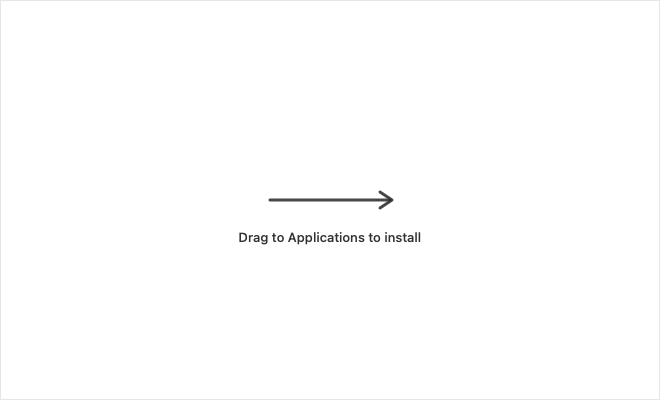
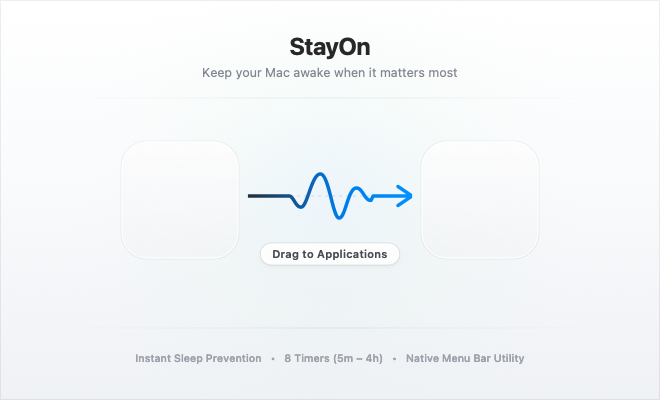
feat: add automated DMG background generator script
- Introduce a Swift script to programmatically generate high-fidelity DMG installer background images.
- Implement `renderDMGBackground` using Core Graphics to draw a professional, branded layout including a luminous gradient base, icon pedestals, and a pulse-wave graphic.
- Add typography rendering using SF Pro with native macOS layout metrics for titles, subtitles, and instructional capsules.
- Automate the generation of both 1x (660x400) and 2x (1320x800) assets to ensure crisp display on Retina screens.
- Include an optional mock mode to overlay system icons for visual verification during development.
- Update `dmg_background.png` and `dmg_background@2x.png` with the new generated assets.

diff --git a/scripts/generate_dmg_background.swift b/scripts/generate_dmg_background.swift
@@ -1,0 +1,391 @@
+#!/usr/bin/env swift
+import Cocoa
+
+// MARK: - Dimensions & Coordinates
+let width: CGFloat = 660
+let height: CGFloat = 400
+
+// Finder icon coordinates in points (top-left origin)
+let stayOnCenter = CGPoint(x: 180, y: 200)
+let appsCenter = CGPoint(x: 480, y: 200)
+
+// Helper: Color from Hex
+func color(hex: UInt32, alpha: CGFloat = 1.0) -> NSColor {
+    let r = CGFloat((hex >> 16) & 0xFF) / 255.0
+    let g = CGFloat((hex >> 8) & 0xFF) / 255.0
+    let b = CGFloat(hex & 0xFF) / 255.0
+    return NSColor(calibratedRed: r, green: g, blue: b, alpha: alpha)
+}
+
+// Exact StayOn pulse waveform scaled and centered
+func makeStayOnPulsePath(centerX: CGFloat, baselineY: CGFloat, pulseWidth: CGFloat, pulseHeight: CGFloat) -> CGPath {
+    let path = CGMutablePath()
+    let origWidth: CGFloat = 353.0
+    let origHeight: CGFloat = 210.0
+    let scaleX = pulseWidth / origWidth
+    let scaleY = pulseHeight / origHeight
+    let startX = centerX - (pulseWidth / 2.0)
+    
+    func mapPoint(_ sx: CGFloat, _ sy: CGFloat) -> CGPoint {
+        let px = startX + (sx - 76.0) * scaleX
+        let py = baselineY + (sy - 160.0) * scaleY
+        return CGPoint(x: px, y: py)
+    }
+    
+    path.move(to: mapPoint(76, 160))
+    path.addCurve(to: mapPoint(128, 213), control1: mapPoint(96, 160), control2: mapPoint(103, 213))
+    path.addCurve(to: mapPoint(211, 55), control1: mapPoint(155, 213), control2: mapPoint(173, 55))
+    path.addCurve(to: mapPoint(292, 265), control1: mapPoint(248, 55), control2: mapPoint(264, 265))
+    path.addCurve(to: mapPoint(366, 122), control1: mapPoint(319, 265), control2: mapPoint(330, 122))
+    path.addCurve(to: mapPoint(429, 181), control1: mapPoint(394, 122), control2: mapPoint(400, 181))
+    path.addLine(to: mapPoint(438, 160))
+    return path
+}
+
+// MARK: - Main Render Function
+func renderDMGBackground(scale: CGFloat, includeMockIcons: Bool = false) -> NSBitmapImageRep {
+    let pixelWidth = Int(width * scale)
+    let pixelHeight = Int(height * scale)
+    
+    let rep = NSBitmapImageRep(
+        bitmapDataPlanes: nil,
+        pixelsWide: pixelWidth,
+        pixelsHigh: pixelHeight,
+        bitsPerSample: 8,
+        samplesPerPixel: 4,
+        hasAlpha: true,
+        isPlanar: false,
+        colorSpaceName: .deviceRGB,
+        bytesPerRow: 0,
+        bitsPerPixel: 0
+    )!
+    
+    guard let nsCtx = NSGraphicsContext(bitmapImageRep: rep) else {
+        fatalError("Failed to create graphics context")
+    }
+    
+    NSGraphicsContext.saveGraphicsState()
+    NSGraphicsContext.current = nsCtx
+    let ctx = nsCtx.cgContext
+    
+    // Scale for Retina
+    ctx.scaleBy(x: scale, y: scale)
+    
+    // Flip coordinate system so (0,0) is TOP-LEFT (matching Finder)
+    ctx.translateBy(x: 0, y: height)
+    ctx.scaleBy(x: 1.0, y: -1.0)
+    
+    let colorSpace = CGColorSpaceCreateDeviceRGB()
+    
+    // -------------------------------------------------------------
+    // 1. Sleek Bright Light Base Gradient
+    // -------------------------------------------------------------
+    // Soft, luminous studio lighting: pure white top fading to crisp light silver-slate
+    let bgColors = [
+        color(hex: 0xFFFFFF).cgColor,
+        color(hex: 0xF7F9FB).cgColor,
+        color(hex: 0xEBEEF3).cgColor
+    ] as CFArray
+    let bgLocations: [CGFloat] = [0.0, 0.45, 1.0]
+    if let bgGradient = CGGradient(colorsSpace: colorSpace, colors: bgColors, locations: bgLocations) {
+        ctx.drawLinearGradient(bgGradient, start: CGPoint(x: 0, y: 0), end: CGPoint(x: 0, y: height), options: [])
+    }
+    
+    // Ambient awake radiance: delicate radial energy aura
+    let auraColors = [
+        color(hex: 0x007AFF, alpha: 0.045).cgColor,
+        color(hex: 0x34C759, alpha: 0.020).cgColor,
+        color(hex: 0xFFFFFF, alpha: 0.0).cgColor
+    ] as CFArray
+    if let auraGradient = CGGradient(colorsSpace: colorSpace, colors: auraColors, locations: [0.0, 0.5, 1.0]) {
+        ctx.drawRadialGradient(
+            auraGradient,
+            startCenter: CGPoint(x: 330, y: 195),
+            startRadius: 0,
+            endCenter: CGPoint(x: 330, y: 195),
+            endRadius: 270,
+            options: []
+        )
+    }
+
+    // -------------------------------------------------------------
+    // 2. Subtle Inset & Hairline Studio Dividers
+    // -------------------------------------------------------------
+    // Outer frame hairline
+    ctx.saveGState()
+    ctx.setLineWidth(1.0)
+    ctx.setStrokeColor(color(hex: 0x000000, alpha: 0.065).cgColor)
+    ctx.stroke(CGRect(x: 0.5, y: 0.5, width: width - 1.0, height: height - 1.0))
+    ctx.restoreGState()
+    
+    // Gradient-faded dividers
+    let dividerColors = [
+        color(hex: 0x000000, alpha: 0.0).cgColor,
+        color(hex: 0x000000, alpha: 0.065).cgColor,
+        color(hex: 0x000000, alpha: 0.0).cgColor
+    ] as CFArray
+    if let divGrad = CGGradient(colorsSpace: colorSpace, colors: dividerColors, locations: [0.0, 0.5, 1.0]) {
+        // Top divider at Finder y = 98
+        ctx.saveGState()
+        ctx.setLineWidth(1.0)
+        ctx.move(to: CGPoint(x: 48, y: 98))
+        ctx.addLine(to: CGPoint(x: width - 48, y: 98))
+        ctx.replacePathWithStrokedPath()
+        ctx.clip()
+        ctx.drawLinearGradient(divGrad, start: CGPoint(x: 48, y: 98), end: CGPoint(x: width - 48, y: 98), options: [])
+        ctx.restoreGState()
+        
+        // Bottom divider at Finder y = 328
+        ctx.saveGState()
+        ctx.setLineWidth(1.0)
+        ctx.move(to: CGPoint(x: 48, y: 328))
+        ctx.addLine(to: CGPoint(x: width - 48, y: 328))
+        ctx.replacePathWithStrokedPath()
+        ctx.clip()
+        ctx.drawLinearGradient(divGrad, start: CGPoint(x: 48, y: 328), end: CGPoint(x: width - 48, y: 328), options: [])
+        ctx.restoreGState()
+    }
+
+    // -------------------------------------------------------------
+    // 3. Frosted Icon Pedestals (Dock Landing Pads)
+    // -------------------------------------------------------------
+    func drawPedestal(at center: CGPoint) {
+        let size: CGFloat = 118
+        let rect = CGRect(x: center.x - size / 2.0, y: center.y - size / 2.0, width: size, height: size)
+        let radius: CGFloat = 26
+        let path = CGPath(roundedRect: rect, cornerWidth: radius, cornerHeight: radius, transform: nil)
+        
+        ctx.saveGState()
+        // Soft tactile drop shadow
+        ctx.setShadow(offset: CGSize(width: 0, height: -2), blur: 14, color: color(hex: 0x000000, alpha: 0.05).cgColor)
+        
+        let pedGrad = CGGradient(
+            colorsSpace: colorSpace,
+            colors: [
+                color(hex: 0xFFFFFF, alpha: 0.90).cgColor,
+                color(hex: 0xF5F7FA, alpha: 0.65).cgColor
+            ] as CFArray,
+            locations: [0.0, 1.0]
+        )!
+        ctx.addPath(path)
+        ctx.clip()
+        ctx.drawLinearGradient(pedGrad, start: CGPoint(x: rect.minX, y: rect.minY), end: CGPoint(x: rect.minX, y: rect.maxY), options: [])
+        ctx.restoreGState()
+        
+        // Outer crisp hairline border
+        ctx.saveGState()
+        ctx.addPath(path)
+        ctx.setLineWidth(1.0)
+        ctx.setStrokeColor(color(hex: 0x000000, alpha: 0.06).cgColor)
+        ctx.strokePath()
+        
+        // Inner luminous highlight rim
+        let innerRect = rect.insetBy(dx: 1.0, dy: 1.0)
+        let innerPath = CGPath(roundedRect: innerRect, cornerWidth: radius - 1, cornerHeight: radius - 1, transform: nil)
+        ctx.addPath(innerPath)
+        ctx.setLineWidth(1.0)
+        ctx.setStrokeColor(color(hex: 0xFFFFFF, alpha: 0.95).cgColor)
+        ctx.strokePath()
+        ctx.restoreGState()
+    }
+    
+    drawPedestal(at: stayOnCenter)
+    drawPedestal(at: appsCenter)
+
+    // -------------------------------------------------------------
+    // 4. Sleek Pulse Wave Arrow (The Heartbeat of StayOn)
+    // -------------------------------------------------------------
+    let centerY: CGFloat = 196
+    let arrowStartX: CGFloat = 248
+    let arrowEndX: CGFloat = 412
+    let pulseCenterX: CGFloat = 330
+    let pulseWidth: CGFloat = 82
+    let pulseHeight: CGFloat = 44
+    
+    // Delicate dotted baseline guide track (vital signs / oscilloscope track)
+    ctx.saveGState()
+    ctx.setLineWidth(1.5)
+    ctx.setLineDash(phase: 0, lengths: [3, 4])
+    ctx.setStrokeColor(color(hex: 0x000000, alpha: 0.08).cgColor)
+    ctx.move(to: CGPoint(x: arrowStartX, y: centerY))
+    ctx.addLine(to: CGPoint(x: arrowEndX - 10, y: centerY))
+    ctx.strokePath()
+    ctx.restoreGState()
+
+    // Full Pulse Arrow Path
+    let pulseStartX = pulseCenterX - (pulseWidth / 2.0)
+    let fullArrowPath = CGMutablePath()
+    fullArrowPath.move(to: CGPoint(x: arrowStartX, y: centerY))
+    fullArrowPath.addLine(to: CGPoint(x: pulseStartX, y: centerY))
+    
+    let pulseWave = makeStayOnPulsePath(
+        centerX: pulseCenterX,
+        baselineY: centerY,
+        pulseWidth: pulseWidth,
+        pulseHeight: pulseHeight
+    )
+    fullArrowPath.addPath(pulseWave)
+    fullArrowPath.addLine(to: CGPoint(x: arrowEndX, y: centerY))
+
+    // Crisp aerodynamic arrowhead
+    let headLen: CGFloat = 14.0
+    let headSpread: CGFloat = 9.5
+    let arrowHead = CGMutablePath()
+    arrowHead.move(to: CGPoint(x: arrowEndX - headLen, y: centerY - headSpread))
+    arrowHead.addLine(to: CGPoint(x: arrowEndX, y: centerY))
+    arrowHead.addLine(to: CGPoint(x: arrowEndX - headLen, y: centerY + headSpread))
+
+    // Stroke Pulse Arrow with energetic gradient + soft glow
+    ctx.saveGState()
+    ctx.setShadow(offset: CGSize(width: 0, height: -2), blur: 8, color: color(hex: 0x007AFF, alpha: 0.28).cgColor)
+    ctx.addPath(fullArrowPath)
+    ctx.addPath(arrowHead)
+    ctx.setLineWidth(3.4)
+    ctx.setLineCap(.round)
+    ctx.setLineJoin(.round)
+    
+    let arrowGradColors = [
+        color(hex: 0x1D2129).cgColor,  // Sleek graphite matching StayOn squircle
+        color(hex: 0x0062E3).cgColor,  // Vibrant transition
+        color(hex: 0x007AFF).cgColor   // Apple electric blue
+    ] as CFArray
+    if let strokeGrad = CGGradient(colorsSpace: colorSpace, colors: arrowGradColors, locations: [0.0, 0.55, 1.0]) {
+        ctx.replacePathWithStrokedPath()
+        ctx.clip()
+        ctx.drawLinearGradient(strokeGrad, start: CGPoint(x: arrowStartX, y: centerY), end: CGPoint(x: arrowEndX, y: centerY), options: [])
+    }
+    ctx.restoreGState()
+
+    // -------------------------------------------------------------
+    // 5. Typography (SF Pro, High Legibility, Native macOS Layout)
+    // -------------------------------------------------------------
+    ctx.saveGState()
+    ctx.translateBy(x: 0, y: height)
+    ctx.scaleBy(x: 1.0, y: -1.0)
+    
+    func drawCenteredText(
+        _ text: String,
+        at point: CGPoint,
+        fontSize: CGFloat,
+        weight: NSFont.Weight,
+        color: NSColor,
+        kern: CGFloat = 0.0
+    ) {
+        let font = NSFont.systemFont(ofSize: fontSize, weight: weight)
+        let paragraph = NSMutableParagraphStyle()
+        paragraph.alignment = .center
+        let attrs: [NSAttributedString.Key: Any] = [
+            .font: font,
+            .foregroundColor: color,
+            .paragraphStyle: paragraph,
+            .kern: kern
+        ]
+        let attrStr = NSAttributedString(string: text, attributes: attrs)
+        let size = attrStr.size()
+        let rect = CGRect(x: point.x - size.width / 2.0, y: point.y - size.height / 2.0, width: size.width, height: size.height)
+        attrStr.draw(in: rect)
+    }
+
+    // Top Header Title: "StayOn"
+    // Finder y = 46 -> Cocoa y = 354
+    drawCenteredText("StayOn", at: CGPoint(x: width / 2.0, y: 354), fontSize: 24, weight: .bold, color: color(hex: 0x1D1D1F), kern: -0.4)
+    
+    // Top Subtitle: "Keep your Mac awake when it matters most"
+    // Finder y = 72 -> Cocoa y = 328
+    drawCenteredText("Keep your Mac awake when it matters most", at: CGPoint(x: width / 2.0, y: 328), fontSize: 12.5, weight: .regular, color: color(hex: 0x6E737D))
+
+    // Instruction Capsule: "Drag to Applications"
+    // Finder y = 254 -> Cocoa y = 146
+    let pillText = "Drag to Applications"
+    let pillFont = NSFont.systemFont(ofSize: 11, weight: .semibold)
+    let pAttrs: [NSAttributedString.Key: Any] = [
+        .font: pillFont,
+        .foregroundColor: color(hex: 0x363A42),
+        .kern: 0.2
+    ]
+    let pStr = NSAttributedString(string: pillText, attributes: pAttrs)
+    let pSize = pStr.size()
+    let pillW = pSize.width + 24
+    let pillH: CGFloat = 22
+    let pillY: CGFloat = 146
+    let pillRect = CGRect(x: (width - pillW) / 2.0, y: pillY - pillH / 2.0, width: pillW, height: pillH)
+    let pillBezier = NSBezierPath(roundedRect: pillRect, xRadius: 11, yRadius: 11)
+    
+    let shadow = NSShadow()
+    shadow.shadowOffset = CGSize(width: 0, height: -1.5)
+    shadow.shadowBlurRadius = 5
+    shadow.shadowColor = color(hex: 0x000000, alpha: 0.05)
+    shadow.set()
+    color(hex: 0xFFFFFF, alpha: 0.94).setFill()
+    pillBezier.fill()
+    
+    NSShadow().set()
+    color(hex: 0x000000, alpha: 0.075).setStroke()
+    pillBezier.lineWidth = 1.0
+    pillBezier.stroke()
+    
+    pStr.draw(at: CGPoint(x: (width - pSize.width) / 2.0, y: pillY - pSize.height / 2.0))
+
+    // Bottom Feature Highlights
+    // Finder y = 358 -> Cocoa y = 42
+    let featureText = "Instant Sleep Prevention   •   8 Timers (5m – 4h)   •   Native Menu Bar Utility"
+    drawCenteredText(
+        featureText,
+        at: CGPoint(x: width / 2.0, y: 42),
+        fontSize: 10.5,
+        weight: .medium,
+        color: color(hex: 0x8C919C)
+    )
+
+    // Optional Preview Icons (for visual verification)
+    if includeMockIcons {
+        let scriptUrl = URL(fileURLWithPath: CommandLine.arguments[0])
+        let repoRoot = scriptUrl.deletingLastPathComponent().deletingLastPathComponent()
+        let appIconUrl = repoRoot.appendingPathComponent("Resources/AppIcon.png")
+        if let appIconImg = NSImage(contentsOf: appIconUrl) {
+            let iconRect = CGRect(x: stayOnCenter.x - 50, y: (height - stayOnCenter.y) - 50, width: 100, height: 100)
+            appIconImg.draw(in: iconRect)
+        }
+        drawCenteredText("StayOn", at: CGPoint(x: stayOnCenter.x, y: 124), fontSize: 12, weight: .regular, color: color(hex: 0x1D1D1F))
+        
+        let appsIconUrl = URL(fileURLWithPath: "/System/Library/CoreServices/CoreTypes.bundle/Contents/Resources/ApplicationsFolderIcon.icns")
+        if let appsIconImg = NSImage(contentsOf: appsIconUrl) {
+            let iconRect = CGRect(x: appsCenter.x - 50, y: (height - appsCenter.y) - 50, width: 100, height: 100)
+            appsIconImg.draw(in: iconRect)
+        }
+        drawCenteredText("Applications", at: CGPoint(x: appsCenter.x, y: 124), fontSize: 12, weight: .regular, color: color(hex: 0x1D1D1F))
+    }
+
+    ctx.restoreGState()
+    NSGraphicsContext.restoreGraphicsState()
+    
+    return rep
+}
+
+// MARK: - Main Execution
+let scriptUrl = URL(fileURLWithPath: CommandLine.arguments[0])
+let repoRoot = scriptUrl.deletingLastPathComponent().deletingLastPathComponent()
+let resourcesDir = repoRoot.appendingPathComponent("Resources")
+let buildDir = repoRoot.appendingPathComponent("build")
+try? FileManager.default.createDirectory(at: buildDir, withIntermediateDirectories: true)
+
+// 1. Generate 1x (660 x 400)
+let rep1x = renderDMGBackground(scale: 1.0, includeMockIcons: false)
+let data1x = rep1x.representation(using: .png, properties: [:])!
+let out1x = resourcesDir.appendingPathComponent("dmg_background.png")
+try! data1x.write(to: out1x)
+print("✅ Generated \(out1x.path) (660x400 @1x)")
+
+// 2. Generate 2x (1320 x 800)
+let rep2x = renderDMGBackground(scale: 2.0, includeMockIcons: false)
+let data2x = rep2x.representation(using: .png, properties: [:])!
+let out2x = resourcesDir.appendingPathComponent("dmg_background@2x.png")
+try! data2x.write(to: out2x)
+print("✅ Generated \(out2x.path) (1320x800 @2x)")
+
+// 3. Generate Mock Preview with Icons overlaid
+let repPreview = renderDMGBackground(scale: 2.0, includeMockIcons: true)
+let dataPreview = repPreview.representation(using: .png, properties: [:])!
+let outPreview = buildDir.appendingPathComponent("dmg_preview.png")
+try! dataPreview.write(to: outPreview)
+print("✅ Generated preview mockup at \(outPreview.path)")
